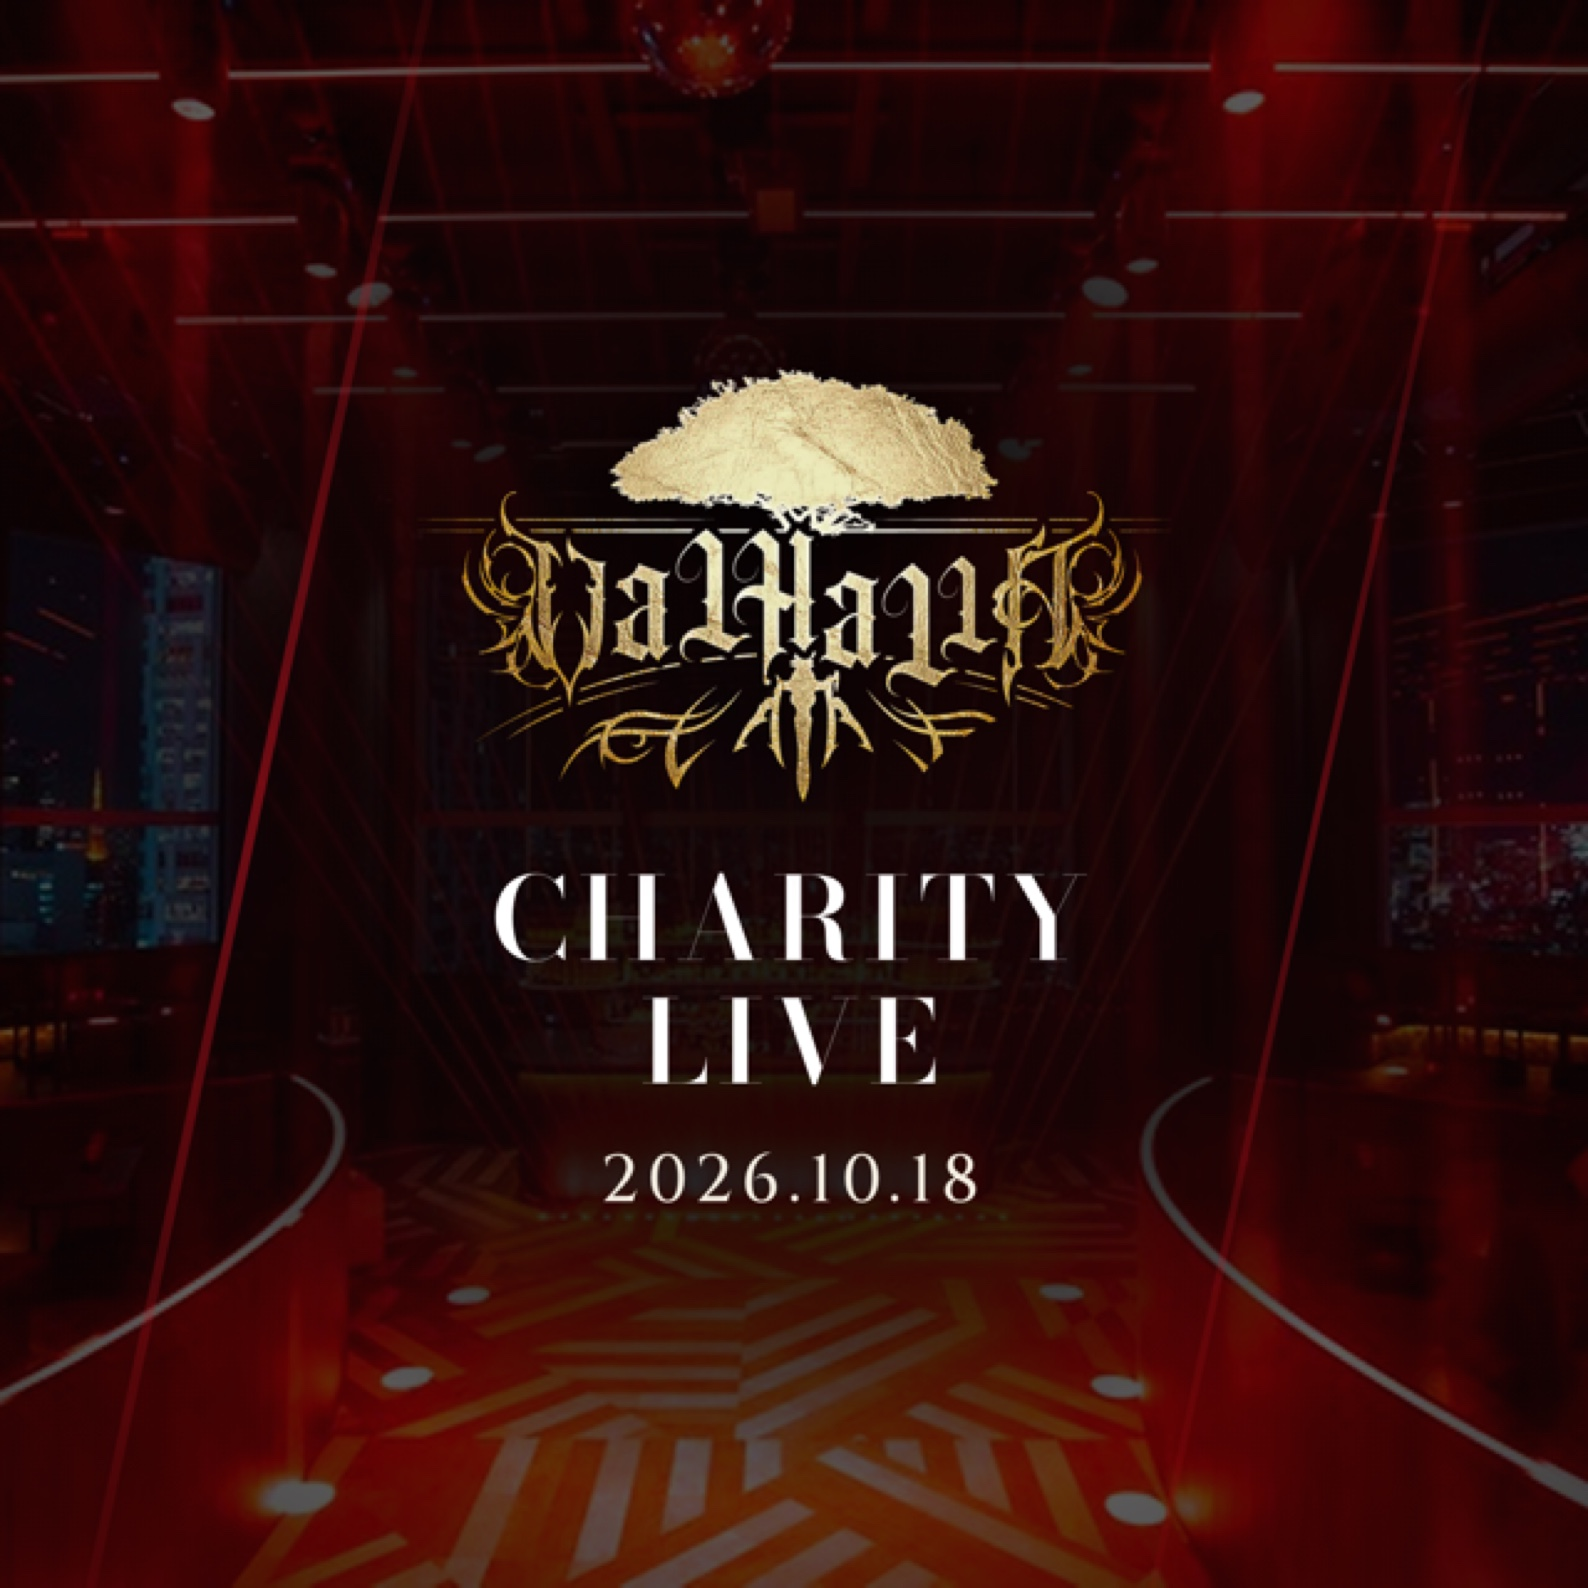
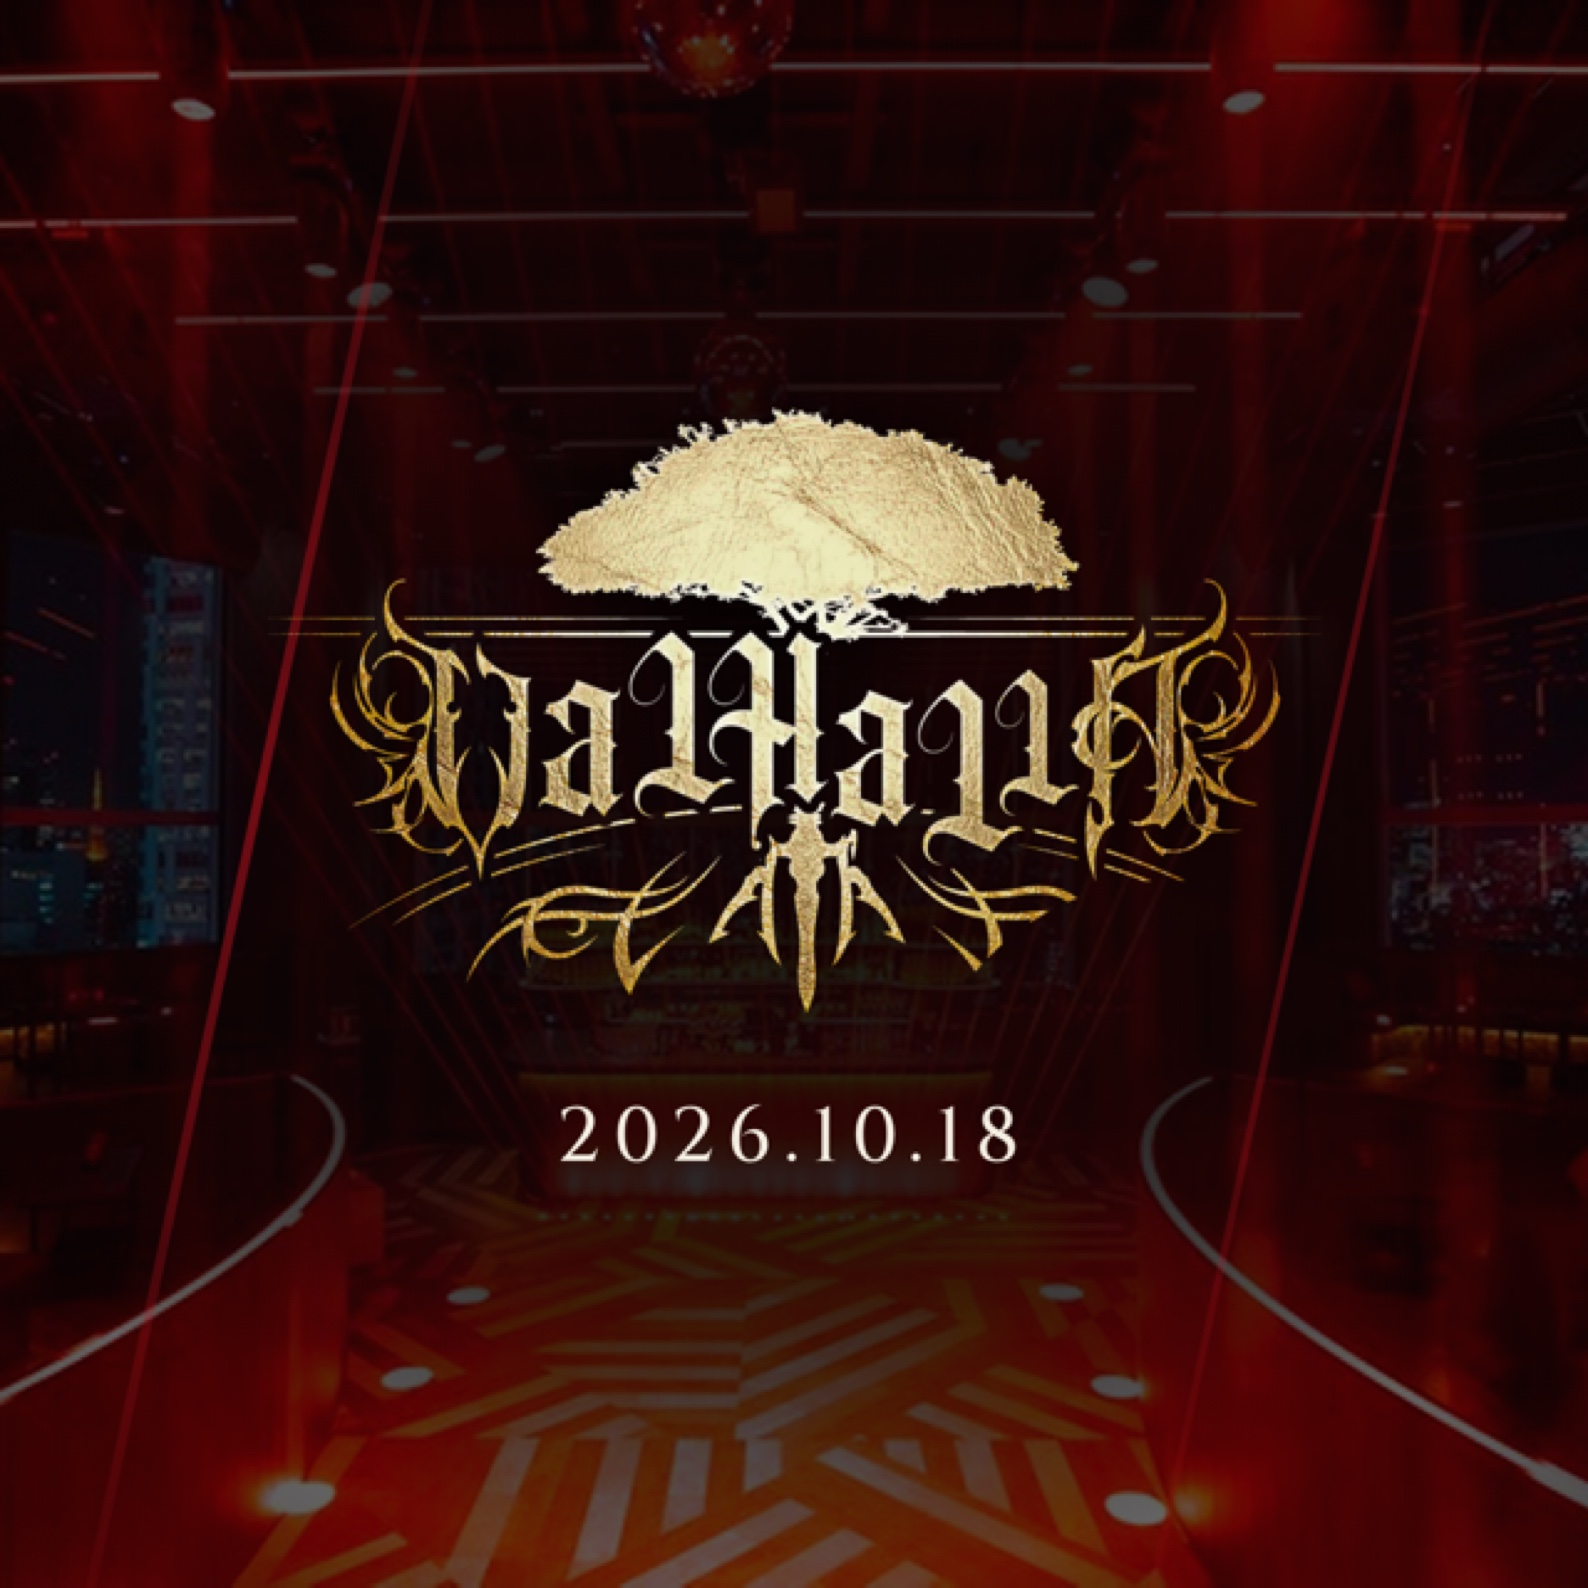
アイコンをB案（ロゴ主体）に確定
kazuma の判断でB案を採用。line_icon_640x640 をBの内容に置き換えた。

アカウント名がアイコンの隣に大きく出るため、内側に
「CHARITY LIVE」を重ねて持つ意味が薄い。その分ロゴを428pxまで
拡大し、日付だけ残した。72pxでもロゴの形が判別できる。

比較検証用に置いた iconb ボードと generate_icon_ab.py は削除。

Changed region(s): [[0.1851, 0.216, 0.8023, 0.7714]]

diff --git a/line-assets.html b/line-assets.html
@@ -71,26 +71,18 @@
     filter:brightness(.78) saturate(1.12) contrast(1.05)}
   /* ロゴと文字が読めるよう中心を落とす */
   .icon .veil{position:absolute;inset:0;z-index:1;
-    background:radial-gradient(ellipse 74% 66% at 50% 46%,
-      rgba(6,4,5,.92) 0%, rgba(6,4,5,.84) 44%, rgba(6,4,5,.55) 74%, rgba(6,4,5,.68) 100%)}
+    background:radial-gradient(ellipse 80% 72% at 50% 45%,
+      rgba(6,4,5,.90) 0%, rgba(6,4,5,.80) 46%, rgba(6,4,5,.52) 76%, rgba(6,4,5,.66) 100%)}
   .icon .vein i.a{left:16%;width:4px;background:linear-gradient(180deg,transparent,rgba(193,18,31,.55) 50%,transparent)}
   .icon .vein i.b{left:83%;width:3px;background:linear-gradient(180deg,transparent,rgba(193,18,31,.4) 50%,transparent)}
   /* 円の内側（直径の約70%）に収める */
   .icon .in{position:absolute;z-index:3;inset:0;display:flex;flex-direction:column;
-    align-items:center;justify-content:center;padding:0 68px;text-align:center}
-  .icon .mark{width:306px;display:block;filter:drop-shadow(0 6px 20px rgba(0,0,0,.85))}
-  .icon .t1{margin-top:20px;font-family:'Bodoni Moda',serif;font-weight:600;font-size:46px;
-    letter-spacing:.08em;line-height:1.08;color:#fff}
-  .icon .t2{margin-top:13px;font-family:'Cinzel',serif;font-weight:500;font-size:27px;
-    letter-spacing:.12em;color:var(--cream)}
-  /* --- アイコン B案: ロゴ主体（小サイズでの識別性を優先） --- */
-  .iconb .in{padding:0 54px}
-  .iconb .mark{width:428px}
-  .iconb .t1{display:none}
-  .iconb .t2{margin-top:26px;font-size:31px;letter-spacing:.16em}
-  .iconb .veil{background:radial-gradient(ellipse 80% 72% at 50% 45%,
-      rgba(6,4,5,.90) 0%, rgba(6,4,5,.80) 46%, rgba(6,4,5,.52) 76%, rgba(6,4,5,.66) 100%)}
-
+    align-items:center;justify-content:center;padding:0 54px;text-align:center}
+  .icon .mark{width:428px;display:block;filter:drop-shadow(0 6px 20px rgba(0,0,0,.85))}
+  /* アカウント名がアイコンの隣に大きく出るため、内側は文字を持たない（ロゴ主体） */
+  .icon .t1{display:none}
+  .icon .t2{margin-top:26px;font-family:'Cinzel',serif;font-weight:500;font-size:31px;
+    letter-spacing:.16em;color:var(--cream)}
   /* 円形トリミングの目安（書き出しには写らない） */
   .guide{position:absolute;inset:0;z-index:9;border-radius:50%;
     box-shadow:0 0 0 9999px rgba(0,0,0,.55);pointer-events:none;display:none}
@@ -126,17 +118,6 @@
   <div class="guide"></div>
 </section>
 
-<section class="board icon iconb">
-  <div class="laser"></div>
-  <div class="veil"></div>
-  <div class="vein"><i class="a"></i><i class="b"></i></div>
-  <div class="in">
-    <img class="mark" src="assets/charity/logo_gold.webp" alt="VALHALLA">
-    <div class="t1">CHARITY<br>LIVE</div>
-    <div class="t2">2026.10.18</div>
-  </div>
-  <div class="guide"></div>
-</section>
 
 </body>
 </html>

diff --git a/docs/celavi-afterparty.md b/docs/celavi-afterparty.md
@@ -267,12 +267,13 @@ kazuma が LINE Official Account Manager のプレビューを共有してくれ
 
 **アカウント名「VALHALLA CHARITYLIVE」がアイコンのすぐ隣に大きく出る。**
 したがってアイコン内に「CHARITY LIVE」の文字を持たせる必要は薄い。
-比較用に B 案（ロゴ主体・文字は日付のみ）を用意した:
-- A案 `line_icon_640x640.png` … ロゴ＋CHARITY LIVE＋日付（現行）
-- B案 `line_icon_640x640_b.png` … ロゴを 428px まで拡大、日付のみ
-- 比較画像の生成: `python3 tools/generate_icon_ab.py` → `dist/line_icon_ab.png`
+A案（ロゴ＋CHARITY LIVE＋日付）と B案（ロゴ主体・日付のみ）を比較したところ、
+72px・44px・トーク一覧 56px での判別性は **B案が明確に上**（A案は 72px で文字が潰れる）。
+**kazuma の判断で B案を採用**し、`line_icon_640x640.png` を B の内容に置き換えた。
 
-72px・44px・トーク一覧 56px での判別性は **B案が明確に上**。A案は 72px で文字が潰れる。
+現行アイコンの仕様: ロゴ 428px（`.icon .mark`）／`CHARITY LIVE` の行は `display:none`／
+日付のみ 31px。アカウント名が隣に大きく出るので、内側に店名を重ねて持たせない。
+※ 比較検証用に一時的に置いた iconb ボードと `tools/generate_icon_ab.py` は役目を終えたので削除済み
 
 ### プロフィールページで未設定のもの（伸びしろ）
 - **ステータスメッセージが空**。検索結果や名前の下に出る一等地。クラファンの残り日数に使える
